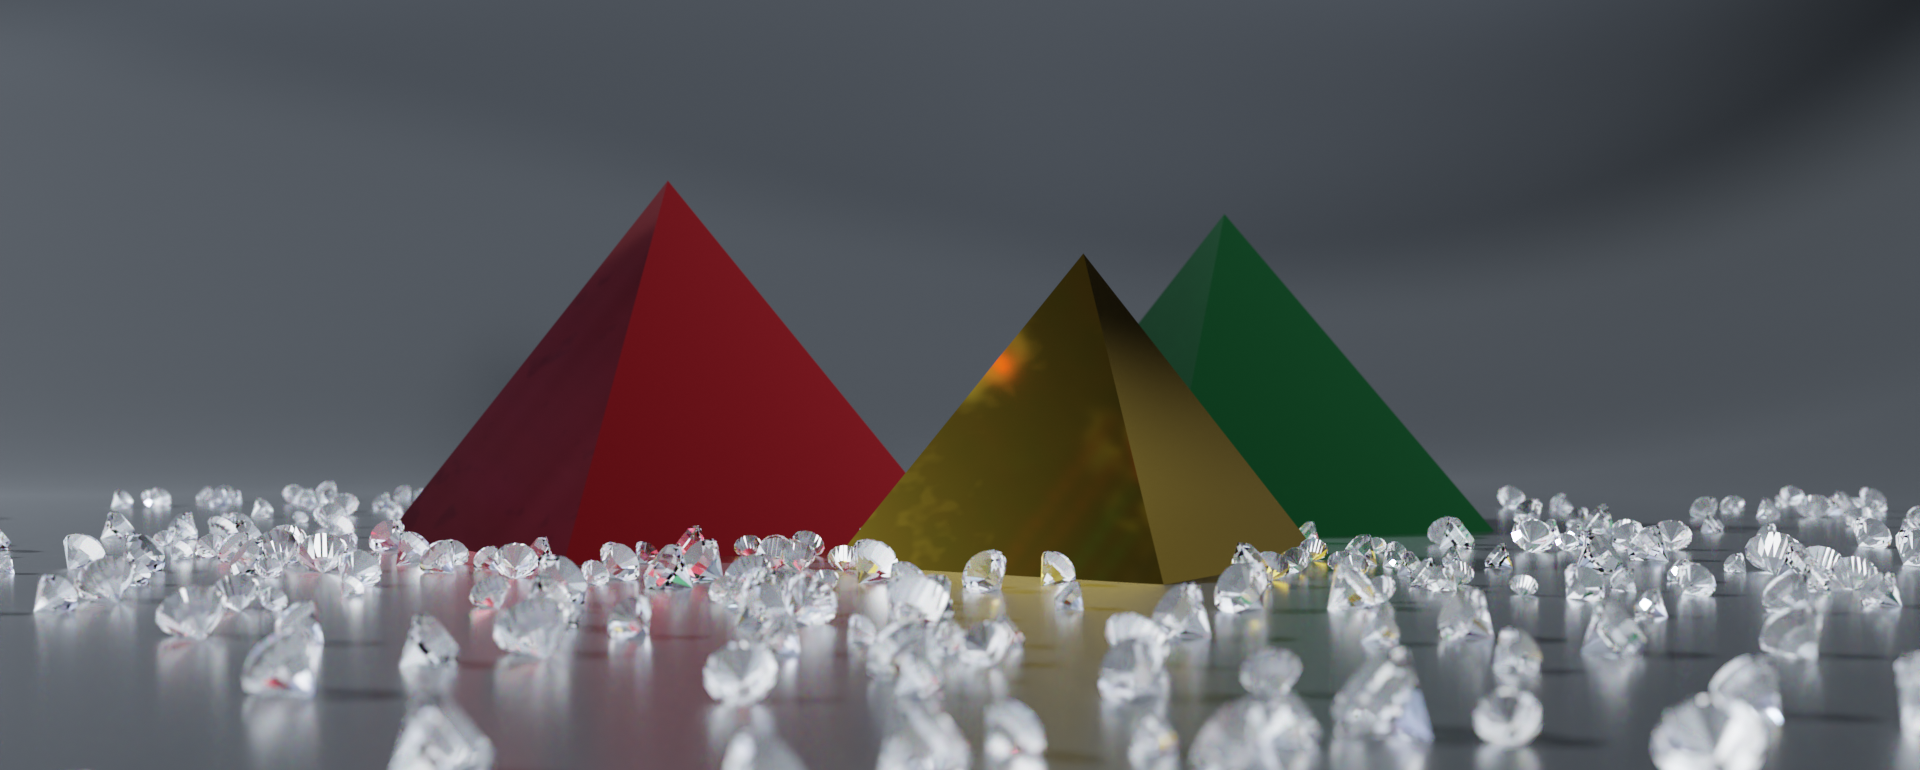
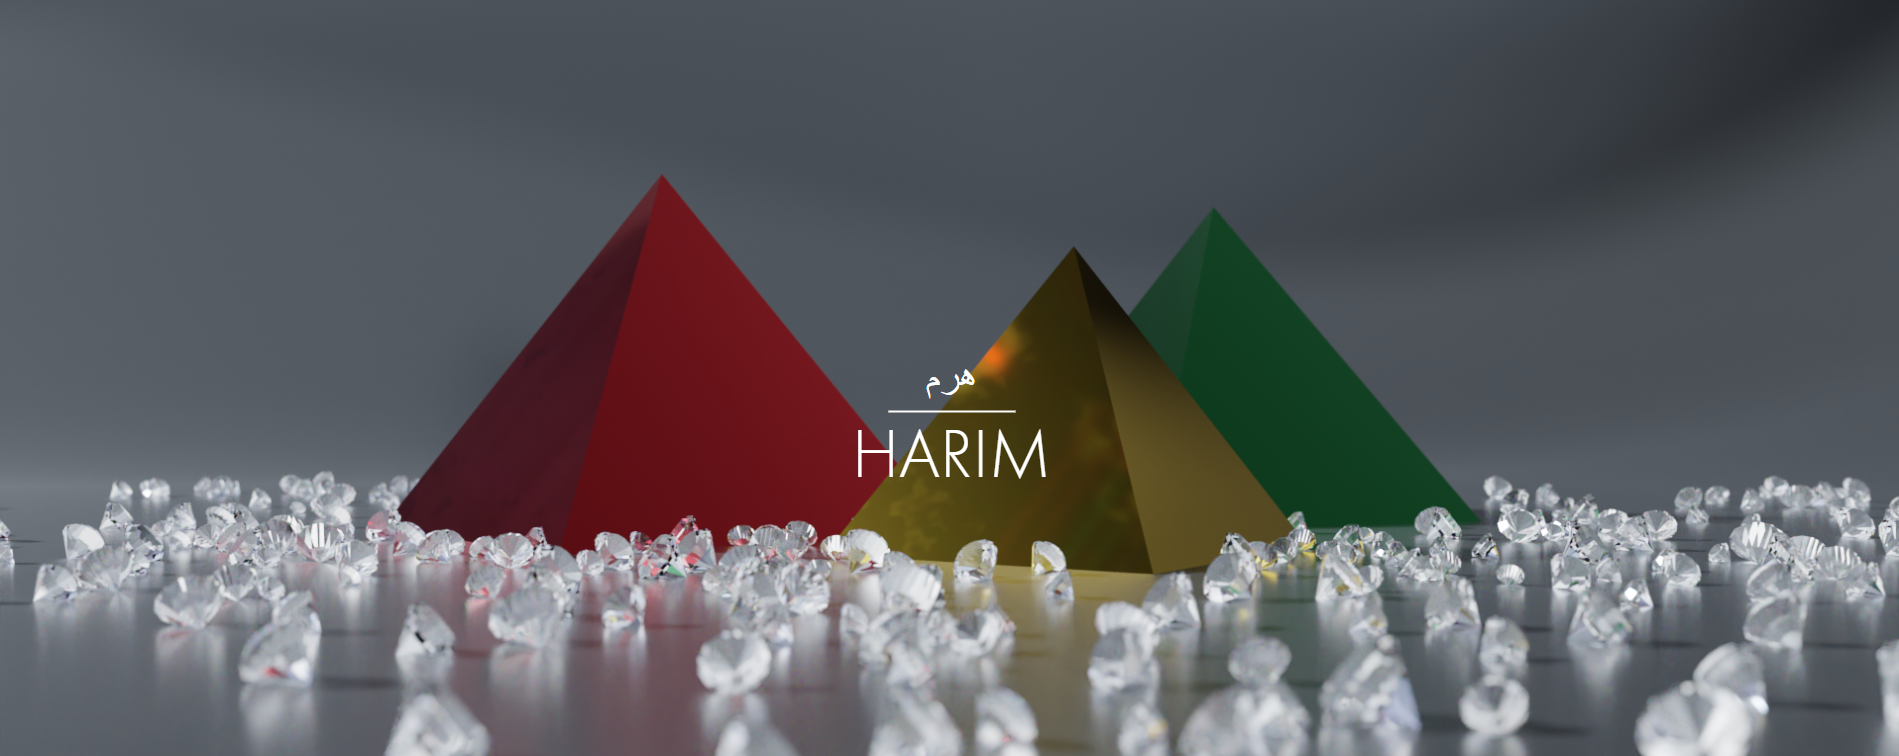
Header Responsive

diff --git a/landingpage.html b/landingpage.html
@@ -11,9 +11,11 @@
     <script src="scripts/aufklappBox_controller.js" defer></script>
     <script src="scripts/color_controller.js" defer></script>
     
+    
     <link rel="stylesheet" href="style.css">
     <link rel="stylesheet" type="text/css" href="slick-1.8.1/slick/slick.css"/>
     <link rel="stylesheet" type="text/css" href="slick-1.8.1/slick/slick-theme.css"/>
+   
     
     
     
@@ -23,17 +25,10 @@
     <header>
         <div id="height_100">
             <div class="navbar">
-            <img id="logo_img" src="images/gucci-logo-header.png" alt="Gucci Logo" >
+             <img id="logo_img" src="images/gucci-logo-header.png" alt="Gucci Logo" >
         </div>
             <div id="logo_div">
                 <img id="three_pyramids" width="auto" src="images/Pyramide_V2_3.png" alt="Gucci Pyramiden alle Farben">
-                <div id="arabic_name_pyramid">هرم</div>
-                <div class="line_header">
-                    <svg xmlns="http://www.w3.org/1900/svg" width="127" height="2" viewBox="0 0 127 2">
-                        <line id="Linie_19" data-name="Linie 19" x2="127" transform="translate(0 1)" fill="none" stroke="#fffcfc" stroke-width="2"/>
-                    </svg>
-                </div>
-                <div id="german_name_pyramid">HARIM</div>
             </div>
         </div>
     </header>
@@ -58,15 +53,13 @@
         </div>
 
         <div class="middle_image">
-            <div><img style="display: inline;"  src="images/diamonds_pyramide_gelb.png" alt="Goldene Pyramide mit Diamanten" width="650px"></div>
-            <div><img style="display: inline;" src="images/diamonds_pyramide_red.png" alt="Goldene Pyramide mit Diamanten" width="650px"></div>
-            <div><img style="display: inline;" src="images/diamonds_pyramide_green.png" alt="Goldene Pyramide mit Diamanten" width="650px"></div>
-            <div><img style="display: inline;"  src="images/diamonds_pyramide_gelb.png" alt="Goldene Pyramide mit Diamanten" width="650px"></div>
-            <div><img style="display: inline;" src="images/diamonds_pyramide_red.png" alt="Goldene Pyramide mit Diamanten" width="650px"></div>
-            <div><img style="display: inline;" src="images/diamonds_pyramide_green.png" alt="Goldene Pyramide mit Diamanten" width="650px"></div>
+            <div><img style="display: inline;"  src="images/diamonds_pyramide_gelb.png" alt="Goldene Pyramide mit Diamanten" width="480px"></div>
+            <div><img style="display: inline;" src="images/diamonds_pyramide_red.png" alt="Goldene Pyramide mit Diamanten" width="480px"></div>
+            <div><img style="display: inline;" src="images/diamonds_pyramide_green.png" alt="Goldene Pyramide mit Diamanten" width="480px"></div>
+            <div><img style="display: inline;"  src="images/diamonds_pyramide_gelb.png" alt="Goldene Pyramide mit Diamanten" width="480px"></div>
+            <div><img style="display: inline;" src="images/diamonds_pyramide_red.png" alt="Goldene Pyramide mit Diamanten" width="480px"></div>
+            <div><img style="display: inline;" src="images/diamonds_pyramide_green.png" alt="Goldene Pyramide mit Diamanten" width="480px"></div>
         </div>
-        <br>
-        <br>
       
 
         <div class="pyramid_all_div">
@@ -80,7 +73,7 @@
 
         <div class="text-container">
             <div>
-                <p class="first-headline">DECOR DER ANTIKE ART</p>
+                <p class="first-headline">DECOR DER ANTIKEN ART</p>
                 <p class="second-headline">ديكور فني قديم</p>
             </div>
             <div class="line">
@@ -99,9 +92,9 @@
 
         <div id="selection_choice">
             <div class="color_selector_div">
-                <div id= "yellow_pyramide" ><img style="display:inline"  class="color_selection_img active_pyramide" src="images/pyramide_gold.png" alt="Goldene Pyramide"></div>
-                <div id= "red_pyramide"><img style="display:inline"  class="color_selection_img" src="images/pyramide_red.png" alt="Rote Pyramide"></div>
-                <div id= "green_pyramide"><img style="display:inline"  class="color_selection_img" src="images/pyramide_green.png" alt="Grüne Pyramide"></div>
+                <div id= "yellow_pyramide" ><img style="display:inline; margin-top: 100px;"  class="color_selection_img active_pyramide" src="images/pyramide_gold.png" alt="Goldene Pyramide"></div>
+                <div id= "red_pyramide"><img style="display:inline; margin-top: 100px;"  class="color_selection_img" src="images/pyramide_red.png" alt="Rote Pyramide"></div>
+                <div id= "green_pyramide"><img style="display:inline; margin-top: 100px;"  class="color_selection_img" src="images/pyramide_green.png" alt="Grüne Pyramide"></div>
             </div>
             
             <div>
@@ -128,7 +121,7 @@
             </div>
 
             <div style="margin-top: 80px;">
-                <svg xmlns="http://www.w3.org/1900/svg" width="100%" height="1" viewBox="0 0 100% 1">
+                <svg xmlns="http://www.w3.org/1900/svg" width="100%" height="1">
                     <line id="Linie_5" data-name="Linie 5" x2="100%" transform="translate(0 0.5)" fill="none" stroke="#707070" stroke-width="1"/>
                 </svg>
                 <div id="material_div" class="aufklapp_boxen" >
@@ -137,7 +130,7 @@
                             <p class="plus" id="plus_material" style="font-size:large"><strong>+</strong></p>
                     </div> 
                 </div>
-                <svg xmlns="http://www.w3.org/1900/svg" width="100%" height="1" viewBox="0 0 100% 1">
+                <svg xmlns="http://www.w3.org/1900/svg" width="100%" height="1">
                     <line id="Linie_5" data-name="Linie 5" x2="100%" transform="translate(0 0.5)" fill="none" stroke="#707070" stroke-width="1"/>
                 </svg>
                 <div id= "versand_div" class="aufklapp_boxen">
@@ -146,7 +139,7 @@
                         <p class="plus" id="plus_versand" style="font-size:large"><strong>+</strong></p>
                     </div>  
                 </div>
-                <svg xmlns="http://www.w3.org/1900/svg" width="100%" height="1" viewBox="0 0 100% 1">
+                <svg xmlns="http://www.w3.org/1900/svg" width="100%" height="1">
                     <line id="Linie_5" data-name="Linie 5" x2="100%" transform="translate(0 0.5)" fill="none" stroke="#707070" stroke-width="1"/>
                 </svg>
                 <div id="geschenk_div" class="aufklapp_boxen">
@@ -155,7 +148,7 @@
                         <p class="plus" id="plus_geschenk" style="font-size:large"><strong>+</strong></p>
                     </div>  
                 </div>
-                <svg xmlns="http://www.w3.org/1900/svg" width="100%" height="1" viewBox="0 0 100% 1">
+                <svg xmlns="http://www.w3.org/1900/svg" width="100%" height="1">
                     <line id="Linie_5" data-name="Linie 5" x2="100%" transform="translate(0 0.5)" fill="none" stroke="#707070" stroke-width="1"/>
                 </svg>  
                 <div id="zahlen_div" class="aufklapp_boxen">
@@ -164,7 +157,7 @@
                         <p class="plus" id="plus_zahlen" style="font-size:large"><strong>+</strong></p>
                     </div>  
                 </div>
-                <svg xmlns="http://www.w3.org/1900/svg" width="100%" height="1" viewBox="0 0 100% 1">
+                <svg xmlns="http://www.w3.org/1900/svg" width="100%" height="1">
                     <line id="Linie_5" data-name="Linie 5" x2="100%" transform="translate(0 0.5)" fill="none" stroke="#707070" stroke-width="1"/>
                 </svg>   
             </div>
@@ -180,5 +173,6 @@
         <script type="text/javascript" src="//code.jquery.com/jquery-1.11.0.min.js"></script>
         <script type="text/javascript" src="//code.jquery.com/jquery-migrate-1.2.1.min.js"></script>
         <script type="text/javascript" src="slick-1.8.1/slick/slick.min.js"></script>
+        <script src="https://cdn.jsdelivr.net/npm/bootstrap@5.2.0-beta1/dist/js/bootstrap.bundle.min.js" integrity="sha384-pprn3073KE6tl6bjs2QrFaJGz5/SUsLqktiwsUTF55Jfv3qYSDhgCecCxMW52nD2" crossorigin="anonymous"></script>
 </body>
 </html>

diff --git a/style.css b/style.css
@@ -163,6 +163,7 @@ header{
   .plus:hover{
     transform: rotate(180deg);
   }
+  
 
   
 
